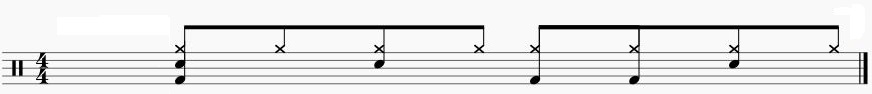
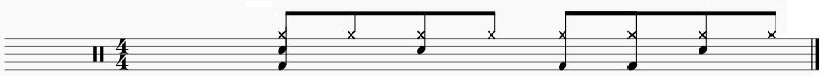
Partitura

Changed region(s): [[0.0, 0.2632, 1.0, 0.9474], [0.6667, 0.1316, 0.9394, 0.2105], [0.3333, 0.1316, 0.6061, 0.2105]]

diff --git a/lib/src/widgets/instrument_matrix.dart b/lib/src/widgets/instrument_matrix.dart
@@ -92,9 +92,9 @@ Widget pseudoSheetMusic(int time, double width, String pseudo) {
       height: 120,
       alignment: Alignment.topRight,
       child: Image(
-      image: AssetImage('assets/musicsheet/$pseudo.jpg'),
+      image: AssetImage('assets/musicsheet/$pseudo.JPG'),
       fit: BoxFit.cover,
-      width: ((width*0.108)*time.toDouble()),
+      //width: ((width*0.108)*time.toDouble()),
     ),
   );
 }

diff --git a/lib/src/utils/sounds_util.dart b/lib/src/utils/sounds_util.dart
@@ -35,7 +35,7 @@ pauseMatrix(){
 }
 
 stopMatrix(){
-  if(isSound){
+  if(isSound || isPaused){
     player.stop();
     isSound = false;
   }
